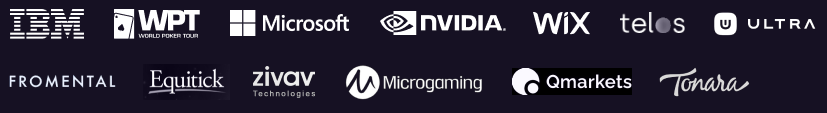
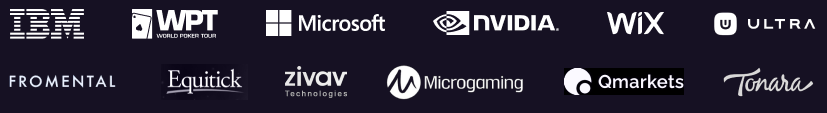
More shiny

Changed region(s): [[0.1814, 0.5841, 0.9976, 0.8761], [0.1209, 0.0796, 0.8464, 0.3451]]

diff --git a/components/SimpleHomepage.vue b/components/SimpleHomepage.vue
@@ -1,14 +1,16 @@
 <template>
   <main id="Hero">
     <section class="mega-hero w-three-quarters">
-      <h1>Interface Designer</h1>
+      <h1>Interface<br>Designer</h1>
       <section class="mega-content">
         <p>My name is Rami James and I work as a freelance user interface, user experience, interaction, and design professional.</p>
-        <a href="mailto:ramijames@gmail.com" class="button">Become a client</a>
       </section>
     </section>  
+    <img src="/hummingbird.png" class="hummingbird" />
     <section id="Clients" class="w-three-quarters">
+      <h4>I've been luck to work with</h4>
       <img src="/clients.png" />
+      <a href="mailto:ramijames@gmail.com" class="button">Become a client</a>
     </section>
   </main>
 
@@ -51,21 +53,60 @@ import selected_articles from '~/assets/selected_articles.json'
   justify-content: center;
   position: relative;
   padding: 0 $spacing-md;
-  background: linear-gradient(-20deg, transparent 50%, rgba($blue, 0.05));
+  background: linear-gradient(-120deg, transparent 80%, rgba($blue, 0.15));
+
+  .hummingbird {
+    position: absolute;
+    z-index: 0;
+    right: 0;
+    top: 55%;
+    transform: translateY(-50%);
+    width: 55vw;
+    transition: all 0.4s ease-in-out;
+
+    @media screen and (min-width: 1800px){
+      width: 50vw;
+      max-width: 1000px;
+      top: 50%;
+      right: 5%;
+    }
+
+    @media screen and (max-width: 1400px){
+      width: 70vw;
+      top: 50%;
+      right: -15%;
+    }
+
+    @media screen and (max-width: 1180px){
+      width: 70vw;
+      top: 45%;
+      right: -15%;
+    }
+    
+    @media screen and (max-width: 768px){
+      width: 80vw;
+      top: 30%;
+      right: -30%;
+    }
+  }
 
   @media screen and (max-width: 768px){
     margin-top: 0;
   }
 
   #Clients {
-    padding: $spacing-sm;
+    padding: 0 $spacing-md;
     margin: $spacing-lg auto;
-    opacity:0.25;
+    opacity:0.85;
     transition: all 0.2s ease-in-out;
     max-width: 1200px;
 
     img {
       max-width: 100%;
+      width: 600px;
+      padding: $spacing-sm 0;
+      border-top: $border;
+      background: rgba($black, 0.25);
     }
 
     &:hover {
@@ -80,17 +121,18 @@ import selected_articles from '~/assets/selected_articles.json'
 
   .mega-hero {
     display: flex;
-    flex-direction: row;
-    justify-content: center;
-    align-items: center;
+    flex-direction: column;
+    align-items: flex-start;
     max-width: 1200px;
-    gap: $spacing-lg;
+    gap: $spacing-sm;
     padding: 0 $spacing-md;
+    position: relative;
 
     h1 {
         font-size: 8vw;
         line-height: 80%;
-        text-shadow: -20px -100px 800px rgba($blue, 0.4), 80px 100px 200px rgba($red, 0.4), 2px 4px 2px rgba($black, 1);
+        z-index: 1;
+        text-shadow: -20px -100px 800px rgba($red, 0.4), 2px 4px 2px rgba($black, 1);
 
         @media screen and (max-width: 768px){
           font-size: 18vw;
@@ -103,10 +145,19 @@ import selected_articles from '~/assets/selected_articles.json'
       }
 
       p {
-        font-size: $font-size-lg;
+        font-size: $font-size-xl;
+        line-height: $font-size-xl;
         font-family: $font-family-main;
+        font-weight: 200;
         max-width: 600px;
         text-wrap: balance;
+        color: $red;
+        opacity: 1;
+        text-shadow: -20px -100px 800px rgba($red, 0.4), 1px 1px 2px rgba($black, 1);
+
+        @media screen and (max-width: 1180px){
+          max-width: 500px;
+        }
       }
 
       .mega-content {
@@ -115,6 +166,7 @@ import selected_articles from '~/assets/selected_articles.json'
         justify-content: flex-start;
         align-items: flex-start;
         gap: $spacing-sm;
+        z-index: 1;
       }
 
     @media screen and (max-width: 768px){

diff --git a/assets/main.scss b/assets/main.scss
@@ -40,9 +40,10 @@ body.dark {
 button,
 .button {
     color: $white;
-    background: rgba($blue,0.1);
-    border-radius: 4rem;
-    border: $border-hover;
+    background: rgba($red,0.5);
+    backdrop-filter: blur(4px);
+    border-radius: $br-xs;
+    border: 1px solid $red;
     text-align: center;
     text-decoration: none;
     padding: 12px $spacing-sm 10px;
@@ -60,7 +61,7 @@ button,
     align-items: center;
     text-transform: uppercase;
     overflow: hidden;
-    box-shadow: 0 0 200px 20px rgba($blue, 0.1);
+    box-shadow: 0 0 200px 20px rgba($blue, 0.6), 0 0 20px 0px rgba($blue, 0.6);
     
     &.primary {
       color: $white;
@@ -72,7 +73,7 @@ button,
 
     &:hover {
         border: $border-hover;
-        box-shadow: 0 0 200px 20px rgba($blue, 0.6), 0 0 20px 0px rgba($blue, 0.6);
+        box-shadow: 0 0 200px 20px rgba($blue, 0.9), 0 0 20px 0px rgba($blue, 0.72);
     }
 
     &.large {
